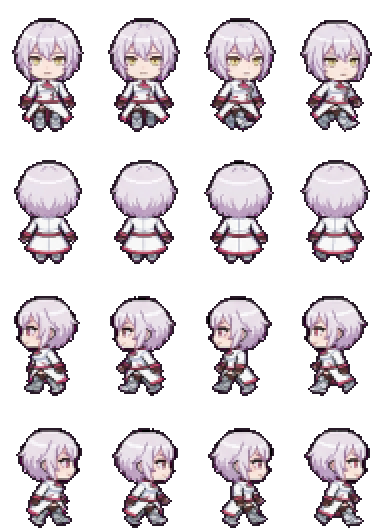
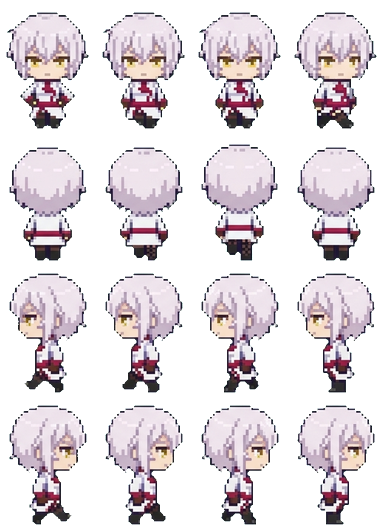
Redraw Jeanne in the shared art style
Claude-Session: https://claude.ai/code/session_01KaPsBYLrtbRfMYNG2xeBCK

diff --git a/docs/app.js b/docs/app.js
@@ -75,7 +75,7 @@ function spr(cat, k, col, sc) {
   return `<div class="clip" style="width:${it[2] * sc}px;height:${it[3] * sc}px;POS"><img class="px" src="assets/decor/${cat}.png" alt="" style="width:${S.sw * sc}px;height:${S.sh * sc}px;margin-left:${-col * S.cw * sc}px;margin-top:${-i * S.ch * sc}px"></div>`;
 }
 const icon = (k, sz) => `<span class="itm" style="width:${sz}px;height:${sz}px"><img class="px" src="assets/ui/items.png" alt="" style="width:${IT.length * sz}px;height:${sz}px;margin-left:${-ITM[k].i * sz}px"></span>`;
-const face = (id, w) => { const s = w / 96; return `<img class="px" src="assets/ch/${id}.webp?v=62" alt="" style="position:absolute;width:${384 * s}px;height:${528 * s}px;left:${-(96 * s - w) / 2}px;top:0;max-width:none">`; };
+const face = (id, w) => { const s = w / 96; return `<img class="px" src="assets/ch/${id}.webp?v=63" alt="" style="position:absolute;width:${384 * s}px;height:${528 * s}px;left:${-(96 * s - w) / 2}px;top:0;max-width:none">`; };
 
 // ---------- 저장 ----------
 let fb = null, user = null, S = null, saveT = null;
@@ -143,7 +143,7 @@ function sleepHTML(id, r, dy) {
   const pos = r.a && r.a[0] === 'bed' ? 'left:3%;bottom:20%' : r.b && r.b[0] === 'bed' ? 'right:3%;bottom:20%' : 'left:calc(50% - 44px);bottom:6%';
   const s = 36 / 96;
   return `<div style="position:absolute;width:88px;height:56px;${pos};z-index:${dy ? 4 : 5};${dy ? `transform:translate(12px,${dy}px)` : ''}"><div style="position:absolute;inset:0;filter:brightness(.22)">
-    <div style="position:absolute;left:11px;top:1px;width:36px;height:50px;overflow:hidden;transform:rotate(-90deg)"><img class="px" src="assets/ch/${id}.webp?v=62" alt="" style="width:${384 * s}px;height:${528 * s}px;max-width:none;margin-top:${-132 * s}px"></div>
+    <div style="position:absolute;left:11px;top:1px;width:36px;height:50px;overflow:hidden;transform:rotate(-90deg)"><img class="px" src="assets/ch/${id}.webp?v=63" alt="" style="width:${384 * s}px;height:${528 * s}px;max-width:none;margin-top:${-132 * s}px"></div>
     <div style="position:absolute;left:19px;top:19px;width:67px;height:29px;border:2px solid var(--ink);border-radius:8px 6px 4px 4px;background:#8ccff5;background-image:repeating-linear-gradient(90deg,transparent 0 10px,rgba(255,255,255,.5) 10px 13px)"></div></div>
     ${dy ? '' : '<span class="emo" style="left:8px;top:-22px;color:#5b6bd6">Z z z</span>'}</div>`;
 }
@@ -153,8 +153,8 @@ function roomHTML(id, o, scale) {
     <div class="floor" style="background-color:${PAL[r.fc][1]};background-image:${tileUrl('floor', r.fl)}"></div>
     ${slot('deco', r.dc, 'left:6%;top:6%')}${slot('furn', r.a, 'left:3%;bottom:20%')}${slot('furn', r.b, 'right:3%;bottom:20%')}${slot('prop', r.pr, 'left:28%;bottom:4%;z-index:2')}
     ${id && o.sleeping && g ? sleepHTML(g, r, -16) : ''}${id && o.sleeping ? sleepHTML(id, r) : ''}${id && o.job ? `<div style="position:absolute;left:50%;top:38%;transform:translateX(-50%);z-index:5;background:#fff;border:3px solid var(--ink);border-radius:10px;padding:6px 10px;font-size:11px;text-align:center;line-height:1.5"><img src="assets/ui/ic_job.png" alt="" style="width:18px;vertical-align:-4px"> ${WORK[id] ? WORK[id][1] : esc(JOB_NAME[id]) + ' 알바 중'}${g ? `<br><small>${esc(nameOf(g))}도 같이</small>` : ''}<br><b id="jobleft">${timeLeft(o.job.until)}</b></div>` : ''}
-    ${id ? `<div class="shadow" id="shd" ${o.sleeping || o.job ? 'style="display:none"' : ''}></div><div class="man" id="man" ${o.sleeping || o.job ? 'style="display:none"' : ''}><img class="px" src="assets/ch/${id}.webp?v=62" alt="${esc(nameOf(id))}"></div><span class="emo" id="emo" hidden></span><span class="mumble" id="mum" hidden></span>` : ''}
-    ${g ? `<div class="shadow" id="gshd" ${hideG}></div><div class="man" id="gman" ${hideG}><img class="px" src="assets/ch/${g}.webp?v=62" alt="${esc(nameOf(g))}"></div><span class="emo" id="gemo" hidden></span><span class="mumble gmum" id="gmum" hidden></span>` : ''}
+    ${id ? `<div class="shadow" id="shd" ${o.sleeping || o.job ? 'style="display:none"' : ''}></div><div class="man" id="man" ${o.sleeping || o.job ? 'style="display:none"' : ''}><img class="px" src="assets/ch/${id}.webp?v=63" alt="${esc(nameOf(id))}"></div><span class="emo" id="emo" hidden></span><span class="mumble" id="mum" hidden></span>` : ''}
+    ${g ? `<div class="shadow" id="gshd" ${hideG}></div><div class="man" id="gman" ${hideG}><img class="px" src="assets/ch/${g}.webp?v=63" alt="${esc(nameOf(g))}"></div><span class="emo" id="gemo" hidden></span><span class="mumble gmum" id="gmum" hidden></span>` : ''}
     ${o.sleeping ? `<div class="night"></div><div class="sleepleft">쿨쿨 · 일어나기까지 <b id="sleepleft">${timeLeft(wakeAt(o)).replace(' 남음', '')}</b></div>` : ''}
   </div>`;
 }
@@ -167,7 +167,7 @@ function meterHTML(o) {
 const ic = (act, img, label, pressed) => `<button class="ic" data-act="${act}" ${pressed ? 'aria-pressed="true"' : ''}><img src="assets/ui/ic_${img}.png?v=2" alt="">${label}</button>`;
 
 let dropStyle = null; const cheat = {};
-const APP_V = 134, COUPONS = { NINOGUYA: 3000 };
+const APP_V = 135, COUPONS = { NINOGUYA: 3000 };
 // 쿠폰 입력 정리: 한글 자판 상태로 친 글자(ㅜㅑㅜㅐ혀ㅛㅁ)도 영어 자판 글자로 바꾸고, 대소문자·띄어쓰기·마침표는 무시해요
 const KEY = { ㄱ: 'r', ㄲ: 'R', ㄴ: 's', ㄷ: 'e', ㄸ: 'E', ㄹ: 'f', ㅁ: 'a', ㅂ: 'q', ㅃ: 'Q', ㅅ: 't', ㅆ: 'T', ㅇ: 'd', ㅈ: 'w', ㅉ: 'W', ㅊ: 'c', ㅋ: 'z', ㅌ: 'x', ㅍ: 'v', ㅎ: 'g',
   ㅏ: 'k', ㅐ: 'o', ㅑ: 'i', ㅒ: 'O', ㅓ: 'j', ㅔ: 'p', ㅕ: 'u', ㅖ: 'P', ㅗ: 'h', ㅘ: 'hk', ㅙ: 'ho', ㅚ: 'hl', ㅛ: 'y', ㅜ: 'n', ㅝ: 'nj', ㅞ: 'np', ㅟ: 'nl', ㅠ: 'b', ㅡ: 'm', ㅢ: 'ml', ㅣ: 'l',
@@ -407,7 +407,7 @@ function startTrip(k) {
   if (tg) lines[1] = `${nameOf(tg)}: ${withHim(sub(pick(GLX(tg).trip), o, c.n), tg)}`;
   const n = (FR[id] || [4, 4, 4, 4])[3], el = document.createElement('div'); el.className = 'tripview';
   el.innerHTML = `<div class="tsay"> </div><div class="tstage" style="background-image:url(assets/travel/${k}.png?v=2)"><div class="tplace">${esc(c.n)}</div>
-    <div class="twalker"><img class="px" src="assets/ch/${id}.webp?v=62" alt=""></div>${tg ? `<div class="twalker tgirl"><img class="px" src="assets/ch/${tg}.webp?v=62" alt=""></div>` : ''}<span class="emo tjoy">♪</span></div>
+    <div class="twalker"><img class="px" src="assets/ch/${id}.webp?v=63" alt=""></div>${tg ? `<div class="twalker tgirl"><img class="px" src="assets/ch/${tg}.webp?v=63" alt=""></div>` : ''}<span class="emo tjoy">♪</span></div>
     <div class="tbar"><i></i></div><button class="btn white tskip" data-tskip="1">바로 돌아오기</button>`;
   document.body.appendChild(el);
   const gimg = el.querySelector('.tgirl img'), gn = tg ? (FR[tg] || [4, 4, 4, 4])[3] : 1;
@@ -636,7 +636,7 @@ setInterval(() => { if (S && user) { tickTime(); save(); } }, 60000);
     if (nv > APP_V && !location.search.includes('u=' + nv)) { location.replace(location.pathname + '?u=' + nv); return; }
   } catch { }
   app.innerHTML = '<div class="start"><div class="egg"><div class="scr"></div></div><div class="note">불러오는 중....</div></div>';
-  const [c, t, f, it, mu, ct, tv, gl, sts] = await Promise.all(['data/chars.json', 'data/talk.json', 'data/frames.json', 'data/items.json', 'data/mumble.json', 'data/countries.json', 'data/travel.json', 'data/girls.json', 'data/sets.json'].map(u => fetch(u + '?v=134').then(r => r.ok ? r.json() : {})));
+  const [c, t, f, it, mu, ct, tv, gl, sts] = await Promise.all(['data/chars.json', 'data/talk.json', 'data/frames.json', 'data/items.json', 'data/mumble.json', 'data/countries.json', 'data/travel.json', 'data/girls.json', 'data/sets.json'].map(u => fetch(u + '?v=135').then(r => r.ok ? r.json() : {})));
   CH = c; CHM = Object.fromEntries(c.map(x => [x.id, x])); TALK = t; FR = f; IT = it; ITM = Object.fromEntries(it.map(x => [x.k, x])); MUM = mu; CTRY = ct; TRV = tv; GL = Array.isArray(gl) ? gl : []; SETS = Array.isArray(sts) ? sts : []; GLM = Object.fromEntries(GL.map(x => [x.id, x]));
   try { await initFirebase(); } catch (e) { console.warn('Firebase 연결 실패, 기기 저장으로', e); fb = null; }
   if (fb) {

diff --git a/docs/index.html b/docs/index.html
@@ -18,6 +18,6 @@
 <main id="app" aria-live="polite"></main>
 <div id="toast" role="status" hidden></div>
 <script src="firebase-config.js?v=3"></script>
-<script type="module" src="app.js?v=134"></script>
+<script type="module" src="app.js?v=135"></script>
 </body>
 </html>
